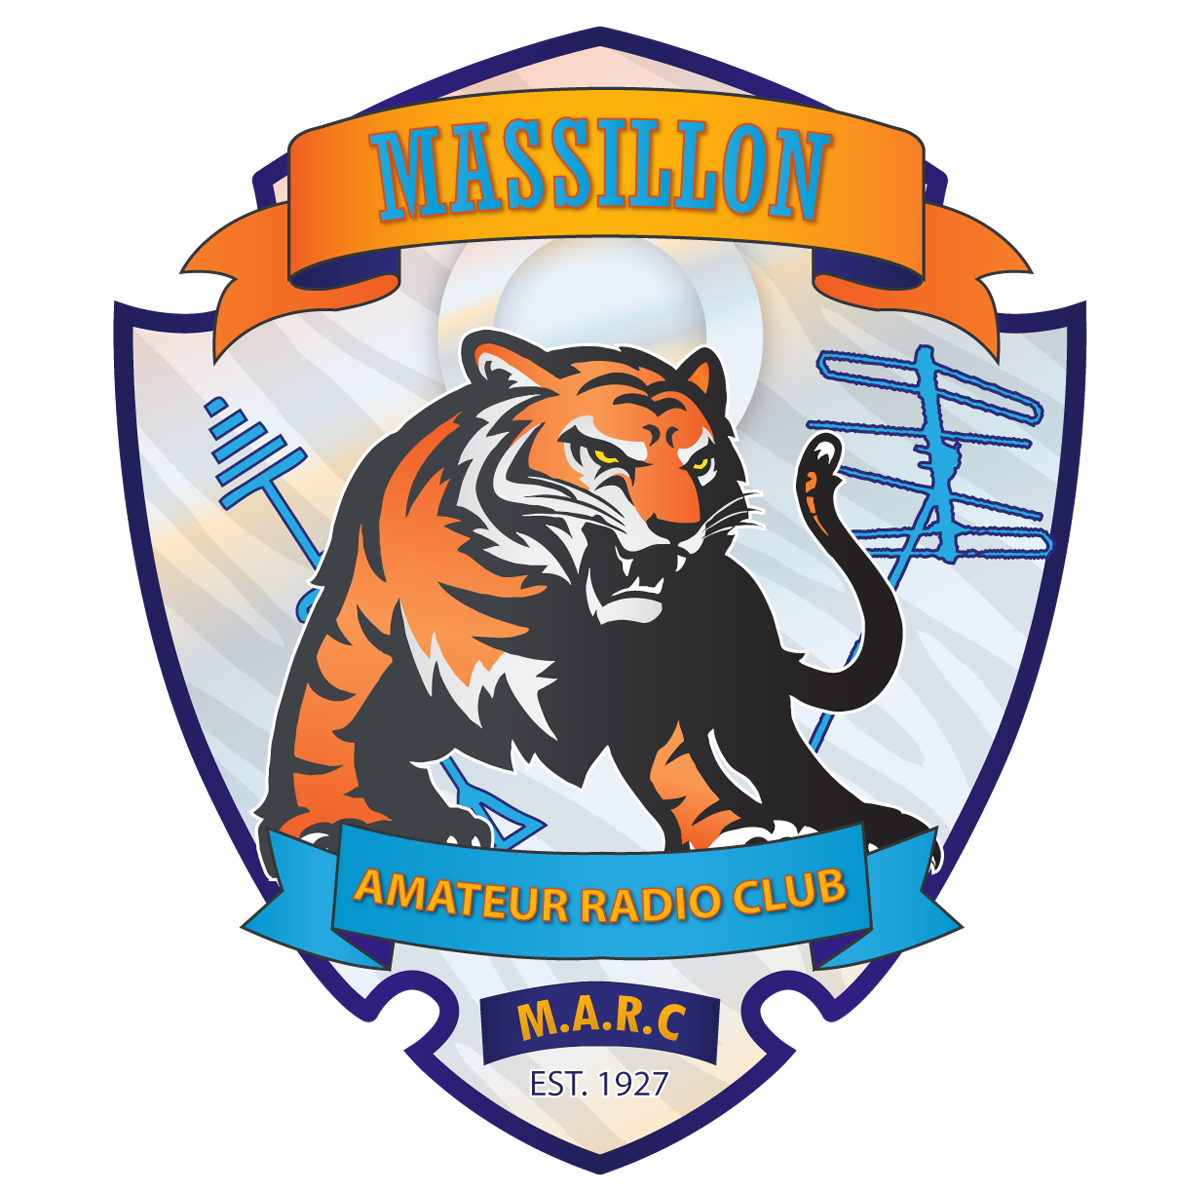
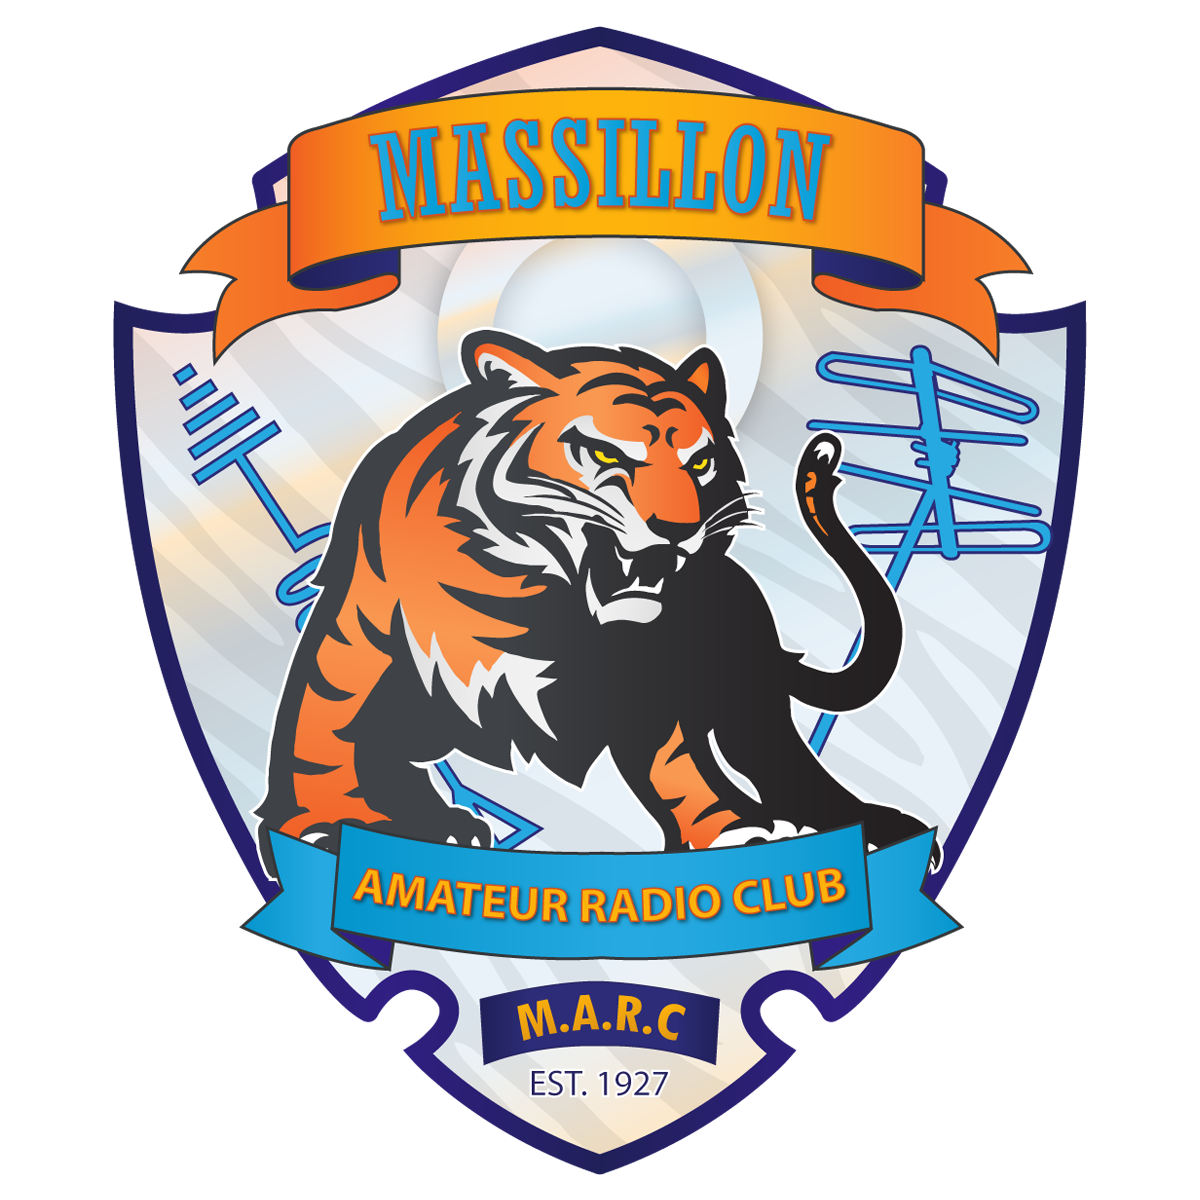
Image
rebuilt parts clean in illustrator for revised logo.

diff --git a/my-halo-images_badge-clip_v3.html b/my-halo-images_badge-clip_v3.html
@@ -321,7 +321,7 @@
 			var $cardsClass = $('.card-wrapper, .card-shine, .card-glare');
 			
 			//var $style = $('.styles');
-			$cards.on('mousemove touchmove touchme touchstart drag click mouseover', function(e) {
+			$cards.on('mousemove touchmove touchme touchstart drag click mouseenter', function(e) {
 				// needed variables
 				//--mx: ${a.x}%;
 				//--my: ${a.y}%;
@@ -333,6 +333,7 @@
 				//--posx: ${c.x}%;
 				//--posy: ${c.y}%;
 				//--hyp: ${Math.sqrt((a.y-50)*(a.y-50)+(a.x-50)*(a.x-50))/50};
+				//--angle: set to for background compared to element
 				var $card = $(this);
 				var l = e.offsetX;
 				var t = e.offsetY;
@@ -340,7 +341,6 @@
 				var w = $card.width();
 				var lp = Math.abs(Math.floor(100 / w * l)-100);
 				var tp = Math.abs(Math.floor(100 / h * t)-100);
-				
 				// pointer position in px
 				var posx = e.clientX;
 				var posy = e.clientY;
@@ -352,7 +352,14 @@
 				var mAngle = getcsstransform($(this));
 				var tiltX = mAngle.rotateX;
 				var tiltY = mAngle.rotateY;
-				// get hype
+				//get angle for element variable
+				var width = $(this).outerWidth();
+				var height = $(this).outerHeight();
+				var left = $(this).offset().left;
+				var top = $(this).offset().top;
+				var objAngle = Math.atan2(e.pageX - (left+width/2),- (e.pageY - (top+height/2)) )*(180/Math.PI);
+				// console.log(objAngle);
+				// get hype for high point variable
 				var hyp = Math.sqrt( (posy-50)*(posy-50) + (posx-50) * (posx-50) ) /50;
 				
 				//var bg = `background-position: ${lp}% ${tp}%;`
@@ -360,7 +367,7 @@
 				$cardsClass.removeClass('active');
 				$cardsClass.addClass('active');
 				//$style.html(style);
-				$('.card-wrapper').attr('style', '--mx:' + xPercent + '%; --my:' + yPercent + '%; --posx:' + posy + 'px; --posy:' + posx + 'px; --tx:' + posx + 'px; --ty:' + posy + 'px; --rx:' + tiltX + 'deg; --ry:' + tiltY + 'deg; --pos:' + xPercent + '% ' +  yPercent + '%; --hyp:' + hyp + ';');
+				$('.card-wrapper').attr('style', '--mx:' + xPercent + '%; --my:' + yPercent + '%; --posx:' + posy + 'px; --posy:' + posx + 'px; --tx:' + posx + 'px; --ty:' + posy + 'px; --rx:' + tiltX + 'deg; --ry:' + tiltY + 'deg; --pos:' + xPercent + '% ' +  yPercent + '%; --hyp:' + hyp + '; --angle:' + objAngle + 'deg;');
 			}).on('mouseleave touchend dragLeave', function() {
 				$cardsClass.removeClass('active');
 			});

diff --git a/my-halo-images_badge-clip_v4-foil.html b/my-halo-images_badge-clip_v4-foil.html
@@ -258,7 +258,7 @@
 			var $cards = $('.card-wrapper');
 			var $cardsClass = $('.card-wrapper, .card-shine, .card-glare');
 			
-			$cards.on('mousemove touchmove touchme touchstart drag click', function(e) {
+			$cards.on('mousemove touchmove touchme touchstart drag click mouseenter', function(e) {
 				// needed variables
 				//--mx: ${a.x}%;
 				//--my: ${a.y}%;
